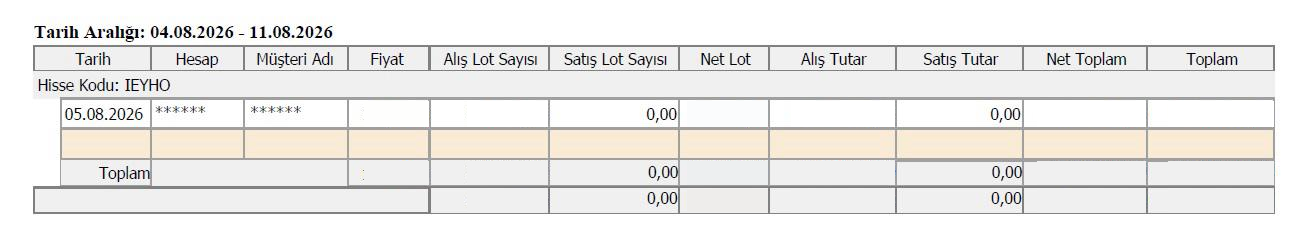
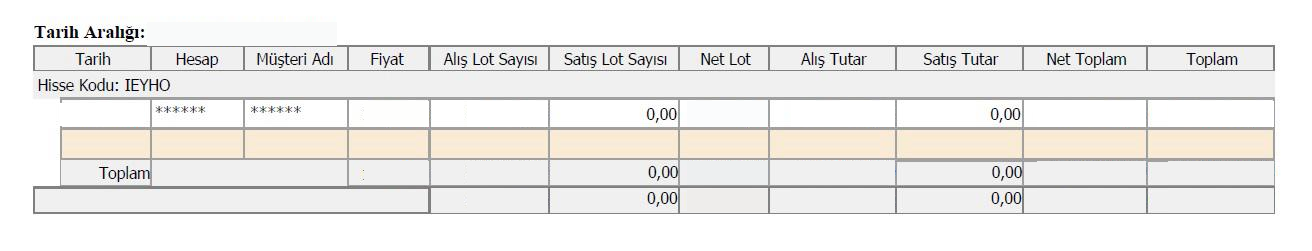
Make the PDF report's dates editable
The report period in the header and the trade date in the table row were both
part of the plate. They are now three fields — report start, report end, and
trade date — and the "Tarih Aralığı:" label stays in the background, so only
the span itself is redrawn.

Changed region(s): [[0.0938, 0.0837, 0.25, 0.1952], [0.0312, 0.4183, 0.125, 0.502]]

diff --git a/pdf-rapor/screen.js b/pdf-rapor/screen.js
@@ -7,6 +7,9 @@ window.SCREEN = {
   locale: "tr-TR",
 
   fields: [
+    { id: "bas",   label: "Rapor Başlangıcı", def: "04.08.2026", raw: true },
+    { id: "bit",   label: "Rapor Bitişi",       def: "11.08.2026", raw: true },
+    { id: "tarih", label: "İşlem Tarihi", def: "05.08.2026", raw: true },
     { id: "adet",  label: "Lot",   def: 300000 },
     { id: "fiyat", label: "Fiyat", def: 171.00 }
   ],
@@ -18,7 +21,14 @@ window.SCREEN = {
   derive: function (s) { return { tutar: s.adet * s.fiyat }; },
 
   overlays: [
+    // ---- the report header ----
+    // "Tarih Aralığı:" stays in the plate; only the span is editable.
+    { id: "aralik", left: 151, top: 22, h: 16, size: 16, weight: 700, color: "#030305",
+      get: function (s) { return s.bas + " - " + s.bit; } },
+
     // ---- the IEYHO trade line ----
+    { id: "tarih", left: 65, top: 106, h: 12, size: 16, weight: 400, color: "#0a090c",
+      get: function (s) { return s.tarih; } },
     { id: "fiyat", right: 887, top: 106, h: 15, size: 15, weight: 400, color: "#0b0d11",
       get: function (s, A) { return A.num(s.fiyat, 4); } },
     { id: "alisLot", right: 768, top: 104, h: 15, size: 16, weight: 400, color: "#0b0d11",
